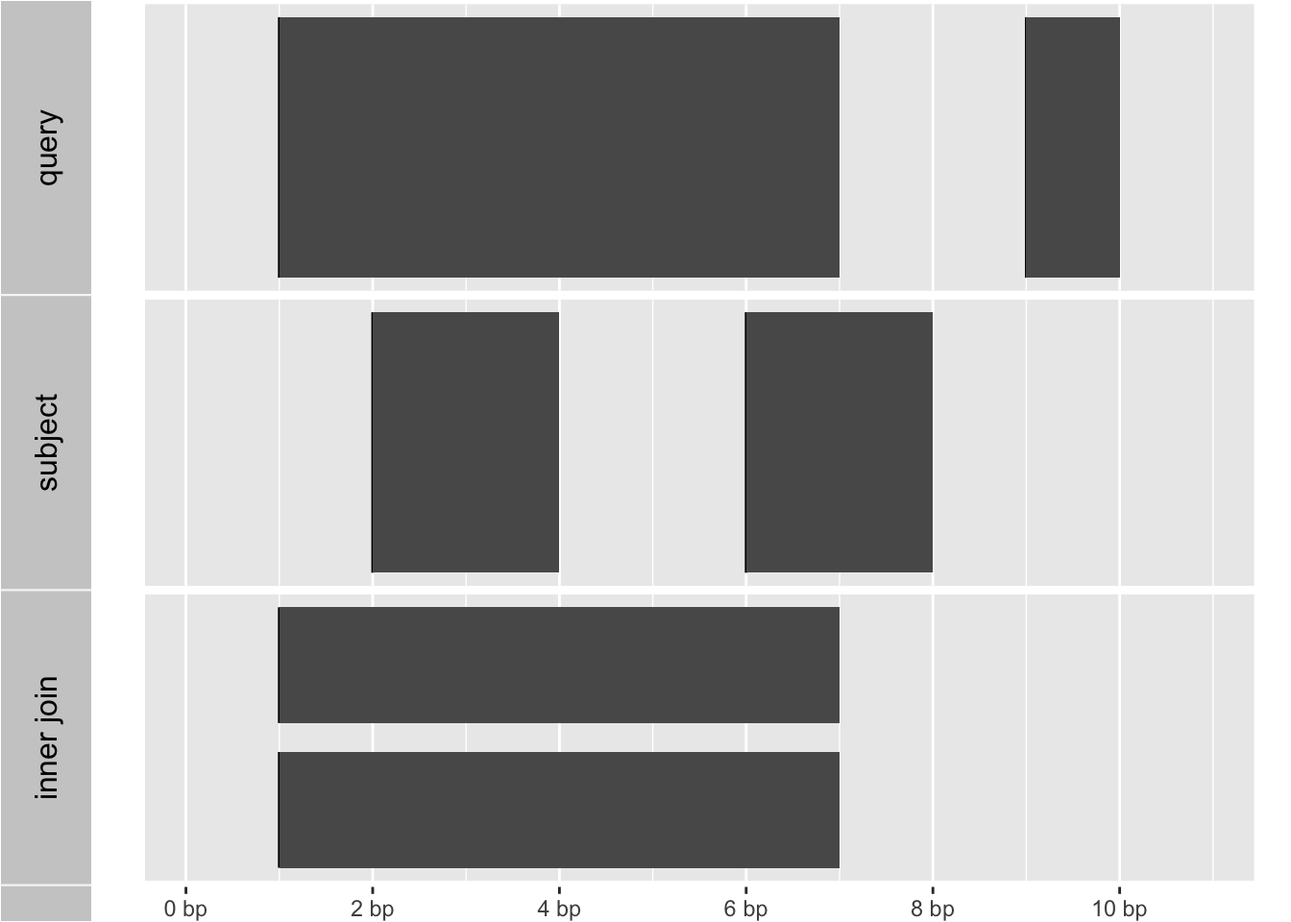
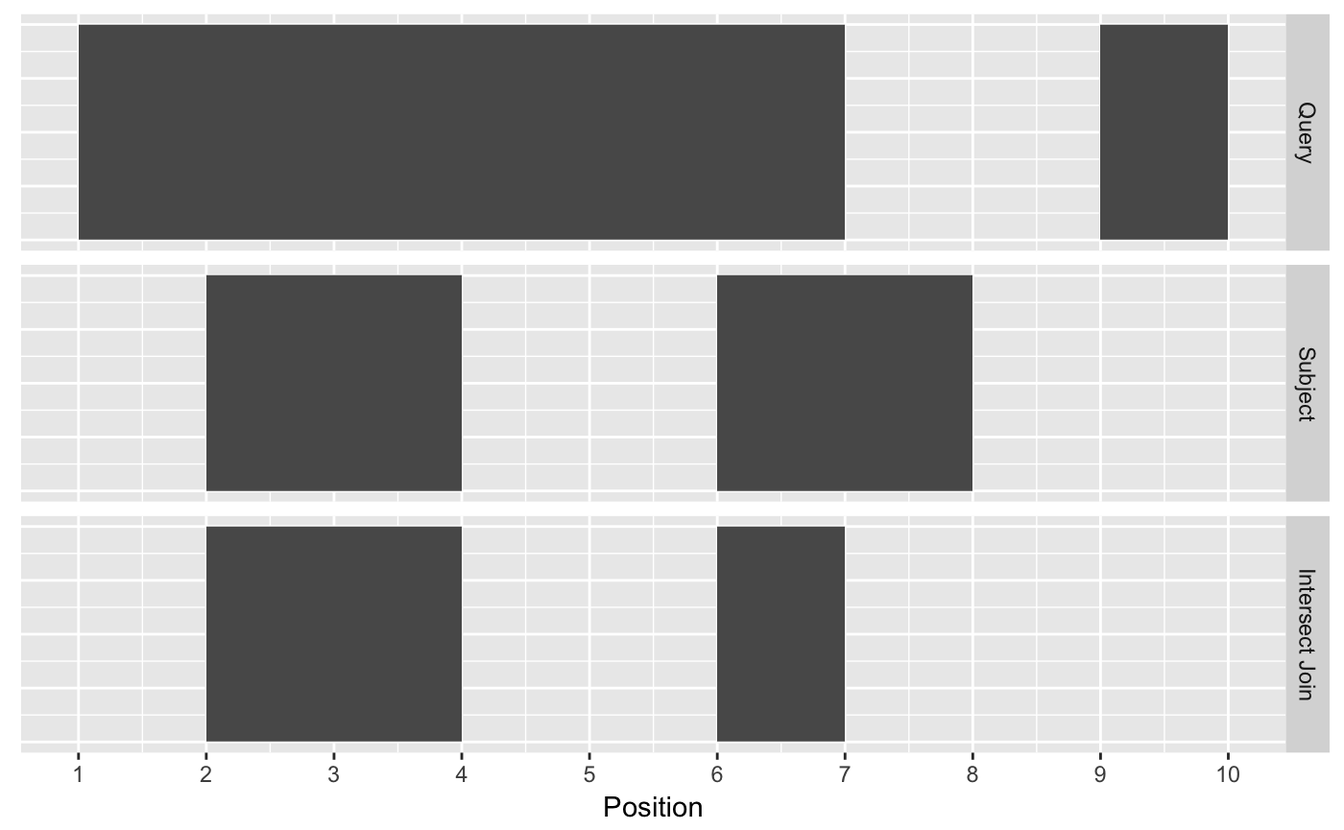
update docs

diff --git a/docs/articles/an-introduction.html b/docs/articles/an-introduction.html
@@ -360,7 +360,7 @@
 <h1 class="hasAnchor">
 <a href="#summarising-ranges" class="anchor"></a>Summarising <code>Ranges</code>
 </h1>
-<p>The <code>summarise</code> function will return a tibble because the information required to return a <code>Ranges</code> object is lost. It is often most useful to use <code>summarise</code> in combination with the <code>group_by</code> family of functions.</p>
+<p>The <code>summarise</code> function will return a <code>DataFrame</code> because the information required to return a <code>Ranges</code> object is lost. It is often most useful to use <code><a href="http://dplyr.tidyverse.org/reference/summarise.html">summarise()</a></code> in combination with the <code><a href="http://dplyr.tidyverse.org/reference/group_by.html">group_by()</a></code> family of functions.</p>
 <div class="sourceCode" id="cb49"><pre class="sourceCode r"><code class="sourceCode r"><a class="sourceLine" id="cb49-1" data-line-number="1">ir1 &lt;-<span class="st"> </span>ir1 <span class="op">%&gt;%</span></a>
 <a class="sourceLine" id="cb49-2" data-line-number="2"><span class="st">  </span><span class="kw"><a href="http://dplyr.tidyverse.org/reference/mutate.html">mutate</a></span>(<span class="dt">gc =</span> <span class="kw">runif</span>(<span class="kw">length</span>(.)))</a>
 <a class="sourceLine" id="cb49-3" data-line-number="3"></a>
@@ -377,8 +377,7 @@
 <h1 class="hasAnchor">
 <a href="#joins-or-another-way-at-looking-at-overlaps-between-ranges" class="anchor"></a>Joins, or another way at looking at overlaps between <code>Ranges</code>
 </h1>
-<p>We can think about finding overlaps as a type of join between two <code>Ranges</code> where we are using the intervals as keys. Of most use are the <code>join_overlap_intersect</code>, <code>join_overlap_inner</code> and <code>join_overlap_left</code> functions.</p>
-<p>To begin we’ll define a query and subject <code>GRanges</code> object.</p>
+<p>A join acts on two GRanges objects, a query and a subject.</p>
 <div class="sourceCode" id="cb51"><pre class="sourceCode r"><code class="sourceCode r"><a class="sourceLine" id="cb51-1" data-line-number="1">query &lt;-<span class="st"> </span><span class="kw">data.frame</span>(<span class="dt">seqnames =</span> <span class="st">"chr1"</span>,</a>
 <a class="sourceLine" id="cb51-2" data-line-number="2">               <span class="dt">strand =</span> <span class="kw">c</span>(<span class="st">"+"</span>, <span class="st">"-"</span>),</a>
 <a class="sourceLine" id="cb51-3" data-line-number="3">               <span class="dt">start =</span> <span class="kw">c</span>(<span class="dv">1</span>, <span class="dv">9</span>), </a>
@@ -397,7 +396,9 @@
 Query and Subject Ranges
 </p>
 </div>
-<p>The first function, <code>join_overlap_intersect</code> will return a <code>Ranges`` object  where the start, end, and width coordinates correspond to the amount of any overlap between the left and right input</code>Ranges`. It also returns any metadata in the subject range if the subject overlaps the query. Note that by default the join functions ignore strandedness.</p>
+<p>The join operator is relational in the sense that metadata from the query and subject ranges is retained in the joined range. All join operators in the <code>plyranges</code> DSL generate a set of hits based on overlap or proximity of ranges and use those hits to merge the two datasets in different ways. There are four supported matching algorithms: <em>overlap</em>, <em>nearest</em>, <em>precede</em>, and <em>follow</em>. We can further restrict the matching by whether the query is completely <em>within</em> the subject, and adding the <em>directed</em> suffix ensures that matching ranges have the same direction (strand).</p>
+<p><img src="olaps.png" width="600px"></p>
+<p>The first function, <code><a href="../reference/overlap-joins.html">join_overlap_intersect()</a></code> will return a <code>Ranges</code> object where the start, end, and width coordinates correspond to the amount of any overlap between the left and right input <code>Ranges</code>. It also returns any metadatain the subject range if the subject overlaps the query.</p>
 <div class="sourceCode" id="cb52"><pre class="sourceCode r"><code class="sourceCode r"><a class="sourceLine" id="cb52-1" data-line-number="1">intersect_rng &lt;-<span class="st"> </span><span class="kw"><a href="../reference/overlap-joins.html">join_overlap_intersect</a></span>(query, subject)</a>
 <a class="sourceLine" id="cb52-2" data-line-number="2">intersect_rng</a></code></pre></div>
 <pre><code>## GRanges object with 2 ranges and 2 metadata columns:
@@ -407,23 +408,14 @@ Query and Subject Ranges
 ##   [2]     chr1       6-7      + |        a        B
 ##   -------
 ##   seqinfo: 1 sequence from an unspecified genome; no seqlengths</code></pre>
-<div class="sourceCode" id="cb54"><pre class="sourceCode r"><code class="sourceCode r"><a class="sourceLine" id="cb54-1" data-line-number="1">intersect_df &lt;-<span class="st"> </span><span class="kw">as.data.frame</span>(intersect_rng)[, <span class="op">-</span><span class="kw">c</span>(<span class="dv">6</span>,<span class="dv">7</span>)]</a>
-<a class="sourceLine" id="cb54-2" data-line-number="2">intersect_df<span class="op">$</span>key &lt;-<span class="st"> "Intersect Join"</span></a>
-<a class="sourceLine" id="cb54-3" data-line-number="3">melted_ranges &lt;-<span class="st"> </span><span class="kw">rbind</span>(query_df, subject_df, intersect_df)</a>
-<a class="sourceLine" id="cb54-4" data-line-number="4">melted_ranges<span class="op">$</span>key &lt;-<span class="st"> </span><span class="kw">factor</span>(melted_ranges<span class="op">$</span>key, </a>
-<a class="sourceLine" id="cb54-5" data-line-number="5">                              <span class="dt">levels =</span> <span class="kw">c</span>(<span class="st">"Query"</span>, <span class="st">"Subject"</span>, <span class="st">"Intersect Join"</span>))</a>
-<a class="sourceLine" id="cb54-6" data-line-number="6"><span class="kw">ggplot</span>(melted_ranges, <span class="kw">aes</span>(<span class="dt">xmin =</span> start, <span class="dt">xmax =</span> end, <span class="dt">ymin =</span> <span class="dv">1</span>, <span class="dt">ymax =</span> <span class="dv">3</span>)) <span class="op">+</span></a>
-<a class="sourceLine" id="cb54-7" data-line-number="7"><span class="st">  </span><span class="kw">geom_rect</span>() <span class="op">+</span><span class="st"> </span></a>
-<a class="sourceLine" id="cb54-8" data-line-number="8"><span class="st">  </span><span class="kw">facet_grid</span>(key <span class="op">~</span><span class="st"> </span>.) <span class="op">+</span></a>
-<a class="sourceLine" id="cb54-9" data-line-number="9"><span class="st">  </span><span class="kw">scale_x_continuous</span>(<span class="dt">breaks =</span> <span class="kw">seq</span>(<span class="dv">1</span>, <span class="dv">10</span>, <span class="dt">by =</span> <span class="dv">1</span>)) <span class="op">+</span></a>
-<a class="sourceLine" id="cb54-10" data-line-number="10"><span class="st">  </span><span class="kw">xlab</span>(<span class="st">"Position"</span>) <span class="op">+</span></a>
-<a class="sourceLine" id="cb54-11" data-line-number="11"><span class="st">  </span><span class="kw">theme</span>(<span class="dt">axis.text.y =</span> <span class="kw">element_blank</span>(),</a>
-<a class="sourceLine" id="cb54-12" data-line-number="12">        <span class="dt">axis.ticks.y =</span> <span class="kw">element_blank</span>(),</a>
-<a class="sourceLine" id="cb54-13" data-line-number="13">        <span class="dt">axis.title.y =</span> <span class="kw">element_blank</span>())</a></code></pre></div>
-<p><img src="an-introduction_files/figure-html/unnamed-chunk-14-1.png" width="700"></p>
-<p>The <code>join_overlap_inner</code> function will return the <code>Ranges</code> in the query that overlap any <code>Ranges</code> in the subject. Like the <code>join_overlap_intersect</code> function metadata of the subject <code>Range</code> is returned if it overlaps the query.</p>
-<div class="sourceCode" id="cb55"><pre class="sourceCode r"><code class="sourceCode r"><a class="sourceLine" id="cb55-1" data-line-number="1">inner_rng &lt;-<span class="st"> </span><span class="kw"><a href="../reference/overlap-joins.html">join_overlap_inner</a></span>(query, subject)</a>
-<a class="sourceLine" id="cb55-2" data-line-number="2">inner_rng</a></code></pre></div>
+<div class="figure">
+<img src="an-introduction_files/figure-html/unnamed-chunk-15-1.png" alt="Intersect Join" width="700"><p class="caption">
+Intersect Join
+</p>
+</div>
+<p>The <code><a href="../reference/overlap-joins.html">join_overlap_inner()</a></code> function will return the <code>Ranges</code> in the query that overlap any <code>Ranges</code> in the subject. Like the <code><a href="../reference/overlap-joins.html">join_overlap_intersect()</a></code> function metadata of the subject <code>Range</code> is returned if it overlaps the query.</p>
+<div class="sourceCode" id="cb54"><pre class="sourceCode r"><code class="sourceCode r"><a class="sourceLine" id="cb54-1" data-line-number="1">inner_rng &lt;-<span class="st"> </span><span class="kw"><a href="../reference/overlap-joins.html">join_overlap_inner</a></span>(query, subject)</a>
+<a class="sourceLine" id="cb54-2" data-line-number="2">inner_rng</a></code></pre></div>
 <pre><code>## GRanges object with 2 ranges and 2 metadata columns:
 ##       seqnames    ranges strand |    key.a    key.b
 ##          &lt;Rle&gt; &lt;IRanges&gt;  &lt;Rle&gt; | &lt;factor&gt; &lt;factor&gt;
@@ -432,12 +424,12 @@ Query and Subject Ranges
 ##   -------
 ##   seqinfo: 1 sequence from an unspecified genome; no seqlengths</code></pre>
 <div class="figure">
-<img src="an-introduction_files/figure-html/unnamed-chunk-16-1.png" alt="Inner Join" width="700"><p class="caption">
+<img src="an-introduction_files/figure-html/unnamed-chunk-17-1.png" alt="Inner Join" width="700"><p class="caption">
 Inner Join
 </p>
 </div>
-<p>We also provide a convienence method called <code>find_overlaps</code> that computes the same result as <code>join_overlap_inner</code>.</p>
-<div class="sourceCode" id="cb57"><pre class="sourceCode r"><code class="sourceCode r"><a class="sourceLine" id="cb57-1" data-line-number="1"><span class="kw"><a href="../reference/ranges-overlaps.html">find_overlaps</a></span>(query, subject)</a></code></pre></div>
+<p>We also provide a convienence method called <code>find_overlaps</code> that computes the same result as <code><a href="../reference/overlap-joins.html">join_overlap_inner()</a></code>.</p>
+<div class="sourceCode" id="cb56"><pre class="sourceCode r"><code class="sourceCode r"><a class="sourceLine" id="cb56-1" data-line-number="1"><span class="kw"><a href="../reference/ranges-overlaps.html">find_overlaps</a></span>(query, subject)</a></code></pre></div>
 <pre><code>## GRanges object with 2 ranges and 2 metadata columns:
 ##       seqnames    ranges strand |    key.a    key.b
 ##          &lt;Rle&gt; &lt;IRanges&gt;  &lt;Rle&gt; | &lt;factor&gt; &lt;factor&gt;
@@ -445,10 +437,10 @@ Inner Join
 ##   [2]     chr1       1-7      + |        a        B
 ##   -------
 ##   seqinfo: 1 sequence from an unspecified genome; no seqlengths</code></pre>
-<p>The <code>join_overlap_left</code> method will perform an outer left join.</p>
-<p>First any overlaps that are found will be returned similar to <code>join_overlap_inner</code>. Then any non-overlapping ranges will be returned, with missing values on the metadata columns.</p>
-<div class="sourceCode" id="cb59"><pre class="sourceCode r"><code class="sourceCode r"><a class="sourceLine" id="cb59-1" data-line-number="1">left_rng &lt;-<span class="st"> </span><span class="kw"><a href="../reference/overlap-joins.html">join_overlap_left</a></span>(query, subject)</a>
-<a class="sourceLine" id="cb59-2" data-line-number="2">left_rng</a></code></pre></div>
+<p>The <code><a href="../reference/overlap-joins.html">join_overlap_left()</a></code> method will perform an outer left join.</p>
+<p>First any overlaps that are found will be returned similar to <code><a href="../reference/overlap-joins.html">join_overlap_inner()</a></code>. Then any non-overlapping ranges will be returned, with missing values on the metadata columns.</p>
+<div class="sourceCode" id="cb58"><pre class="sourceCode r"><code class="sourceCode r"><a class="sourceLine" id="cb58-1" data-line-number="1">left_rng &lt;-<span class="st"> </span><span class="kw"><a href="../reference/overlap-joins.html">join_overlap_left</a></span>(query, subject)</a>
+<a class="sourceLine" id="cb58-2" data-line-number="2">left_rng</a></code></pre></div>
 <pre><code>## GRanges object with 3 ranges and 2 metadata columns:
 ##       seqnames    ranges strand |    key.a    key.b
 ##          &lt;Rle&gt; &lt;IRanges&gt;  &lt;Rle&gt; | &lt;factor&gt; &lt;factor&gt;
@@ -458,11 +450,46 @@ Inner Join
 ##   -------
 ##   seqinfo: 2 sequences from an unspecified genome; no seqlengths</code></pre>
 <div class="figure">
-<img src="an-introduction_files/figure-html/unnamed-chunk-19-1.png" alt="Inner Join" width="700"><p class="caption">
-Inner Join
+<img src="an-introduction_files/figure-html/unnamed-chunk-20-1.png" alt="Left Join" width="700"><p class="caption">
+Left Join
 </p>
 </div>
-<p>Compared with <code>filter_by_overlaps</code> above, the overlap left join expands the <code>Ranges</code> to give information about each interval on the query <code>Ranges</code> that overlap those on the subject <code>Ranges</code> as well as the intervals on the left that do not overlap any range on the right.</p>
+<p>Compared with <code><a href="../reference/ranges-filter-overlaps.html">filter_by_overlaps()</a></code> above, the overlap left join expands the <code>Ranges</code> to give information about each interval on the query <code>Ranges</code> that overlap those on the subject <code>Ranges</code> as well as the intervals on the left that do not overlap any range on the right.</p>
+<div id="finding-your-neighbours" class="section level2">
+<h2 class="hasAnchor">
+<a href="#finding-your-neighbours" class="anchor"></a>Finding your neighbours</h2>
+<p>We also provide methods for finding nearest, preceding or following <code>Ranges</code>. Conceputally this is identical to our approach for finding overlaps, except the semantics of the join are different.</p>
+<p><img src="neighbours.png" width="600px"></p>
+<div class="sourceCode" id="cb60"><pre class="sourceCode r"><code class="sourceCode r"><a class="sourceLine" id="cb60-1" data-line-number="1"><span class="kw"><a href="../reference/ranges-nearest.html">join_nearest</a></span>(ir0, ir1)</a></code></pre></div>
+<pre><code>## IRanges object with 4 ranges and 1 metadata column:
+##           start       end     width |                gc
+##       &lt;integer&gt; &lt;integer&gt; &lt;integer&gt; |         &lt;numeric&gt;
+##   [1]         5         9         5 | 0.780358511023223
+##   [2]        10        14         5 | 0.780358511023223
+##   [3]        15        19         5 | 0.780358511023223
+##   [4]        20        24         5 | 0.780358511023223</code></pre>
+<div class="sourceCode" id="cb62"><pre class="sourceCode r"><code class="sourceCode r"><a class="sourceLine" id="cb62-1" data-line-number="1"><span class="kw"><a href="../reference/ranges-follow.html">join_follow</a></span>(ir0, ir1)</a></code></pre></div>
+<pre><code>## IRanges object with 4 ranges and 1 metadata column:
+##           start       end     width |                gc
+##       &lt;integer&gt; &lt;integer&gt; &lt;integer&gt; |         &lt;numeric&gt;
+##   [1]         5         9         5 | 0.777584439376369
+##   [2]        10        14         5 | 0.603324356488883
+##   [3]        15        19         5 | 0.780358511023223
+##   [4]        20        24         5 | 0.780358511023223</code></pre>
+<div class="sourceCode" id="cb64"><pre class="sourceCode r"><code class="sourceCode r"><a class="sourceLine" id="cb64-1" data-line-number="1"><span class="kw"><a href="../reference/ranges-precede.html">join_precede</a></span>(ir0, ir1) <span class="co"># nothing precedes returns empty `Ranges`</span></a></code></pre></div>
+<pre><code>## IRanges object with 0 ranges and 1 metadata column:
+##        start       end     width |        gc
+##    &lt;integer&gt; &lt;integer&gt; &lt;integer&gt; | &lt;numeric&gt;</code></pre>
+<div class="sourceCode" id="cb66"><pre class="sourceCode r"><code class="sourceCode r"><a class="sourceLine" id="cb66-1" data-line-number="1"><span class="kw"><a href="../reference/ranges-precede.html">join_precede</a></span>(ir1, ir0)</a></code></pre></div>
+<pre><code>## IRanges object with 5 ranges and 1 metadata column:
+##           start       end     width |                gc
+##       &lt;integer&gt; &lt;integer&gt; &lt;integer&gt; |         &lt;numeric&gt;
+##   [1]         2         4         3 | 0.777584439376369
+##   [2]         3         6         4 | 0.827303449623287
+##   [3]         4         8         5 | 0.603324356488883
+##   [4]         5        10         6 | 0.491231821943074
+##   [5]         6        12         7 | 0.780358511023223</code></pre>
+</div>
 <div id="example-dealing-with-multimapping" class="section level2">
 <h2 class="hasAnchor">
 <a href="#example-dealing-with-multimapping" class="anchor"></a>Example: dealing with multimapping</h2>
@@ -470,12 +497,12 @@ Inner Join
 <p>We have two <code>Ranges</code> objects. The first contains single nucleotide positions corresponding to an intensity measurement such as a ChiP-seq experiment, while the other contains coordinates for two genes of interest.</p>
 <p>We want to identify which positions in the <code>intensties</code> <code>Ranges</code> overlap the genes, where each row corresponds to a position that overlaps a single gene.</p>
 <p>First we create the two <code>Ranges</code> objects</p>
-<div class="sourceCode" id="cb61"><pre class="sourceCode r"><code class="sourceCode r"><a class="sourceLine" id="cb61-1" data-line-number="1">intensities &lt;-<span class="st"> </span><span class="kw">data.frame</span>(<span class="dt">seqnames =</span> <span class="st">"VI"</span>,</a>
-<a class="sourceLine" id="cb61-2" data-line-number="2">                          <span class="dt">start =</span> <span class="kw">c</span>(<span class="dv">3320</span><span class="op">:</span><span class="dv">3321</span>,<span class="dv">3330</span><span class="op">:</span><span class="dv">3331</span>,<span class="dv">3341</span><span class="op">:</span><span class="dv">3342</span>),</a>
-<a class="sourceLine" id="cb61-3" data-line-number="3">                          <span class="dt">width =</span> <span class="dv">1</span>) <span class="op">%&gt;%</span><span class="st"> </span></a>
-<a class="sourceLine" id="cb61-4" data-line-number="4"><span class="st">  </span><span class="kw"><a href="../reference/ranges-construct.html">as_granges</a></span>()</a>
-<a class="sourceLine" id="cb61-5" data-line-number="5"></a>
-<a class="sourceLine" id="cb61-6" data-line-number="6">intensities </a></code></pre></div>
+<div class="sourceCode" id="cb68"><pre class="sourceCode r"><code class="sourceCode r"><a class="sourceLine" id="cb68-1" data-line-number="1">intensities &lt;-<span class="st"> </span><span class="kw">data.frame</span>(<span class="dt">seqnames =</span> <span class="st">"VI"</span>,</a>
+<a class="sourceLine" id="cb68-2" data-line-number="2">                          <span class="dt">start =</span> <span class="kw">c</span>(<span class="dv">3320</span><span class="op">:</span><span class="dv">3321</span>,<span class="dv">3330</span><span class="op">:</span><span class="dv">3331</span>,<span class="dv">3341</span><span class="op">:</span><span class="dv">3342</span>),</a>
+<a class="sourceLine" id="cb68-3" data-line-number="3">                          <span class="dt">width =</span> <span class="dv">1</span>) <span class="op">%&gt;%</span><span class="st"> </span></a>
+<a class="sourceLine" id="cb68-4" data-line-number="4"><span class="st">  </span><span class="kw"><a href="../reference/ranges-construct.html">as_granges</a></span>()</a>
+<a class="sourceLine" id="cb68-5" data-line-number="5"></a>
+<a class="sourceLine" id="cb68-6" data-line-number="6">intensities </a></code></pre></div>
 <pre><code>## GRanges object with 6 ranges and 0 metadata columns:
 ##       seqnames    ranges strand
 ##          &lt;Rle&gt; &lt;IRanges&gt;  &lt;Rle&gt;
@@ -487,13 +514,13 @@ Inner Join
 ##   [6]       VI      3342      *
 ##   -------
 ##   seqinfo: 1 sequence from an unspecified genome; no seqlengths</code></pre>
-<div class="sourceCode" id="cb63"><pre class="sourceCode r"><code class="sourceCode r"><a class="sourceLine" id="cb63-1" data-line-number="1">genes &lt;-<span class="st"> </span><span class="kw">data.frame</span>(<span class="dt">seqnames =</span> <span class="st">"VI"</span>, </a>
-<a class="sourceLine" id="cb63-2" data-line-number="2">                    <span class="dt">start =</span> <span class="kw">c</span>(<span class="dv">3322</span>, <span class="dv">3030</span>),</a>
-<a class="sourceLine" id="cb63-3" data-line-number="3">                    <span class="dt">end =</span> <span class="kw">c</span>(<span class="dv">3846</span>, <span class="dv">3338</span>),</a>
-<a class="sourceLine" id="cb63-4" data-line-number="4">                    <span class="dt">gene_id=</span><span class="kw">c</span>(<span class="st">"YFL064C"</span>, <span class="st">"YFL065C"</span>)) <span class="op">%&gt;%</span><span class="st"> </span></a>
-<a class="sourceLine" id="cb63-5" data-line-number="5"><span class="st">  </span><span class="kw"><a href="../reference/ranges-construct.html">as_granges</a></span>()</a>
-<a class="sourceLine" id="cb63-6" data-line-number="6">                    </a>
-<a class="sourceLine" id="cb63-7" data-line-number="7">genes</a></code></pre></div>
+<div class="sourceCode" id="cb70"><pre class="sourceCode r"><code class="sourceCode r"><a class="sourceLine" id="cb70-1" data-line-number="1">genes &lt;-<span class="st"> </span><span class="kw">data.frame</span>(<span class="dt">seqnames =</span> <span class="st">"VI"</span>, </a>
+<a class="sourceLine" id="cb70-2" data-line-number="2">                    <span class="dt">start =</span> <span class="kw">c</span>(<span class="dv">3322</span>, <span class="dv">3030</span>),</a>
+<a class="sourceLine" id="cb70-3" data-line-number="3">                    <span class="dt">end =</span> <span class="kw">c</span>(<span class="dv">3846</span>, <span class="dv">3338</span>),</a>
+<a class="sourceLine" id="cb70-4" data-line-number="4">                    <span class="dt">gene_id=</span><span class="kw">c</span>(<span class="st">"YFL064C"</span>, <span class="st">"YFL065C"</span>)) <span class="op">%&gt;%</span><span class="st"> </span></a>
+<a class="sourceLine" id="cb70-5" data-line-number="5"><span class="st">  </span><span class="kw"><a href="../reference/ranges-construct.html">as_granges</a></span>()</a>
+<a class="sourceLine" id="cb70-6" data-line-number="6">                    </a>
+<a class="sourceLine" id="cb70-7" data-line-number="7">genes</a></code></pre></div>
 <pre><code>## GRanges object with 2 ranges and 1 metadata column:
 ##       seqnames    ranges strand |  gene_id
 ##          &lt;Rle&gt; &lt;IRanges&gt;  &lt;Rle&gt; | &lt;factor&gt;
@@ -502,9 +529,9 @@ Inner Join
 ##   -------
 ##   seqinfo: 1 sequence from an unspecified genome; no seqlengths</code></pre>
 <p>Now to find where the positions overlap each gene, we can perform an overlap join. This will automatically carry over the gene_id information as well as their coordinates (we can drop those by only selecting the gene_id).</p>
-<div class="sourceCode" id="cb65"><pre class="sourceCode r"><code class="sourceCode r"><a class="sourceLine" id="cb65-1" data-line-number="1">olap &lt;-<span class="st"> </span><span class="kw"><a href="../reference/overlap-joins.html">join_overlap_inner</a></span>(intensities, genes) <span class="op">%&gt;%</span></a>
-<a class="sourceLine" id="cb65-2" data-line-number="2"><span class="st">  </span><span class="kw"><a href="http://dplyr.tidyverse.org/reference/select.html">select</a></span>(gene_id)</a>
-<a class="sourceLine" id="cb65-3" data-line-number="3">olap</a></code></pre></div>
+<div class="sourceCode" id="cb72"><pre class="sourceCode r"><code class="sourceCode r"><a class="sourceLine" id="cb72-1" data-line-number="1">olap &lt;-<span class="st"> </span><span class="kw"><a href="../reference/overlap-joins.html">join_overlap_inner</a></span>(intensities, genes) <span class="op">%&gt;%</span></a>
+<a class="sourceLine" id="cb72-2" data-line-number="2"><span class="st">  </span><span class="kw"><a href="http://dplyr.tidyverse.org/reference/select.html">select</a></span>(gene_id)</a>
+<a class="sourceLine" id="cb72-3" data-line-number="3">olap</a></code></pre></div>
 <pre><code>## GRanges object with 8 ranges and 1 metadata column:
 ##       seqnames    ranges strand |  gene_id
 ##          &lt;Rle&gt; &lt;IRanges&gt;  &lt;Rle&gt; | &lt;factor&gt;
@@ -519,9 +546,9 @@ Inner Join
 ##   -------
 ##   seqinfo: 1 sequence from an unspecified genome; no seqlengths</code></pre>
 <p>Several positions match to both genes. We can count them using <code>summarise</code> and grouping by the <code>start</code> position:</p>
-<div class="sourceCode" id="cb67"><pre class="sourceCode r"><code class="sourceCode r"><a class="sourceLine" id="cb67-1" data-line-number="1">olap <span class="op">%&gt;%</span><span class="st"> </span></a>
-<a class="sourceLine" id="cb67-2" data-line-number="2"><span class="st">  </span><span class="kw"><a href="http://dplyr.tidyverse.org/reference/group_by.html">group_by</a></span>(start) <span class="op">%&gt;%</span></a>
-<a class="sourceLine" id="cb67-3" data-line-number="3"><span class="st">  </span><span class="kw"><a href="http://dplyr.tidyverse.org/reference/summarise.html">summarise</a></span>(<span class="dt">n =</span> <span class="kw"><a href="../reference/n.html">n</a></span>())</a></code></pre></div>
+<div class="sourceCode" id="cb74"><pre class="sourceCode r"><code class="sourceCode r"><a class="sourceLine" id="cb74-1" data-line-number="1">olap <span class="op">%&gt;%</span><span class="st"> </span></a>
+<a class="sourceLine" id="cb74-2" data-line-number="2"><span class="st">  </span><span class="kw"><a href="http://dplyr.tidyverse.org/reference/group_by.html">group_by</a></span>(start) <span class="op">%&gt;%</span></a>
+<a class="sourceLine" id="cb74-3" data-line-number="3"><span class="st">  </span><span class="kw"><a href="http://dplyr.tidyverse.org/reference/summarise.html">summarise</a></span>(<span class="dt">n =</span> <span class="kw"><a href="../reference/n.html">n</a></span>())</a></code></pre></div>
 <pre><code>## DataFrame with 6 rows and 2 columns
 ##       start         n
 ##   &lt;integer&gt; &lt;integer&gt;
@@ -532,50 +559,13 @@ Inner Join
 ## 5      3341         1
 ## 6      3342         1</code></pre>
 </div>
-<div id="finding-your-neighbours" class="section level2">
-<h2 class="hasAnchor">
-<a href="#finding-your-neighbours" class="anchor"></a>Finding your neighbours</h2>
-<p>We also provide methods for finding nearest, preceding or following <code>Ranges</code>.</p>
-<!--- ![Nearest neighbour joins](neighbours.png) --->
-<p>These methods are similar to the overlap joins described above.</p>
-<div class="sourceCode" id="cb69"><pre class="sourceCode r"><code class="sourceCode r"><a class="sourceLine" id="cb69-1" data-line-number="1"><span class="kw"><a href="../reference/ranges-nearest.html">join_nearest</a></span>(ir0, ir1)</a></code></pre></div>
-<pre><code>## IRanges object with 4 ranges and 1 metadata column:
-##           start       end     width |                gc
-##       &lt;integer&gt; &lt;integer&gt; &lt;integer&gt; |         &lt;numeric&gt;
-##   [1]         5         9         5 | 0.780358511023223
-##   [2]        10        14         5 | 0.780358511023223
-##   [3]        15        19         5 | 0.780358511023223
-##   [4]        20        24         5 | 0.780358511023223</code></pre>
-<div class="sourceCode" id="cb71"><pre class="sourceCode r"><code class="sourceCode r"><a class="sourceLine" id="cb71-1" data-line-number="1"><span class="kw"><a href="../reference/ranges-follow.html">join_follow</a></span>(ir0, ir1)</a></code></pre></div>
-<pre><code>## IRanges object with 4 ranges and 1 metadata column:
-##           start       end     width |                gc
-##       &lt;integer&gt; &lt;integer&gt; &lt;integer&gt; |         &lt;numeric&gt;
-##   [1]         5         9         5 | 0.777584439376369
-##   [2]        10        14         5 | 0.603324356488883
-##   [3]        15        19         5 | 0.780358511023223
-##   [4]        20        24         5 | 0.780358511023223</code></pre>
-<div class="sourceCode" id="cb73"><pre class="sourceCode r"><code class="sourceCode r"><a class="sourceLine" id="cb73-1" data-line-number="1"><span class="kw"><a href="../reference/ranges-precede.html">join_precede</a></span>(ir0, ir1) <span class="co"># nothing precedes returns empty `Ranges`</span></a></code></pre></div>
-<pre><code>## IRanges object with 0 ranges and 1 metadata column:
-##        start       end     width |        gc
-##    &lt;integer&gt; &lt;integer&gt; &lt;integer&gt; | &lt;numeric&gt;</code></pre>
-<div class="sourceCode" id="cb75"><pre class="sourceCode r"><code class="sourceCode r"><a class="sourceLine" id="cb75-1" data-line-number="1"><span class="kw"><a href="../reference/ranges-precede.html">join_precede</a></span>(ir1, ir0)</a></code></pre></div>
-<pre><code>## IRanges object with 5 ranges and 1 metadata column:
-##           start       end     width |                gc
-##       &lt;integer&gt; &lt;integer&gt; &lt;integer&gt; |         &lt;numeric&gt;
-##   [1]         2         4         3 | 0.777584439376369
-##   [2]         3         6         4 | 0.827303449623287
-##   [3]         4         8         5 | 0.603324356488883
-##   [4]         5        10         6 | 0.491231821943074
-##   [5]         6        12         7 | 0.780358511023223</code></pre>
-<p>For <code>GRanges</code> objects by default strand is not considered when performing overlap joins. To include strand when finding overlaps use append the prefix <code>directed</code>. To restrict overlapping <code>Ranges</code> to those within the query range use the prefix <code>within</code>.</p>
-</div>
 <div id="grouping-by-overlaps" class="section level2">
 <h2 class="hasAnchor">
 <a href="#grouping-by-overlaps" class="anchor"></a>Grouping by overlaps</h2>
 <p>It’s also possible to group by overlaps. Using this approach we can count the number of overlaps that are greater than 0.</p>
-<div class="sourceCode" id="cb77"><pre class="sourceCode r"><code class="sourceCode r"><a class="sourceLine" id="cb77-1" data-line-number="1">grp_by_olap &lt;-<span class="st"> </span>ir0 <span class="op">%&gt;%</span><span class="st"> </span></a>
-<a class="sourceLine" id="cb77-2" data-line-number="2"><span class="st">  </span><span class="kw"><a href="../reference/ranges-overlaps.html">group_by_overlaps</a></span>(ir1)</a>
-<a class="sourceLine" id="cb77-3" data-line-number="3">grp_by_olap</a></code></pre></div>
+<div class="sourceCode" id="cb76"><pre class="sourceCode r"><code class="sourceCode r"><a class="sourceLine" id="cb76-1" data-line-number="1">grp_by_olap &lt;-<span class="st"> </span>ir0 <span class="op">%&gt;%</span><span class="st"> </span></a>
+<a class="sourceLine" id="cb76-2" data-line-number="2"><span class="st">  </span><span class="kw"><a href="../reference/ranges-overlaps.html">group_by_overlaps</a></span>(ir1)</a>
+<a class="sourceLine" id="cb76-3" data-line-number="3">grp_by_olap</a></code></pre></div>
 <pre><code>## IRanges object with 6 ranges and 2 metadata columns:
 ## Groups: query [2]
 ##           start       end     width |                gc     query
@@ -586,8 +576,8 @@ Inner Join
 ##   [4]         5         9         5 | 0.780358511023223         1
 ##   [5]        10        14         5 | 0.491231821943074         2
 ##   [6]        10        14         5 | 0.780358511023223         2</code></pre>
-<div class="sourceCode" id="cb79"><pre class="sourceCode r"><code class="sourceCode r"><a class="sourceLine" id="cb79-1" data-line-number="1">grp_by_olap <span class="op">%&gt;%</span></a>
-<a class="sourceLine" id="cb79-2" data-line-number="2"><span class="st">  </span><span class="kw"><a href="http://dplyr.tidyverse.org/reference/mutate.html">mutate</a></span>(<span class="dt">n_overlaps =</span> <span class="kw"><a href="../reference/n.html">n</a></span>())</a></code></pre></div>
+<div class="sourceCode" id="cb78"><pre class="sourceCode r"><code class="sourceCode r"><a class="sourceLine" id="cb78-1" data-line-number="1">grp_by_olap <span class="op">%&gt;%</span></a>
+<a class="sourceLine" id="cb78-2" data-line-number="2"><span class="st">  </span><span class="kw"><a href="http://dplyr.tidyverse.org/reference/mutate.html">mutate</a></span>(<span class="dt">n_overlaps =</span> <span class="kw"><a href="../reference/n.html">n</a></span>())</a></code></pre></div>
 <pre><code>## IRanges object with 6 ranges and 3 metadata columns:
 ## Groups: query [2]
 ##           start       end     width |                gc     query
@@ -606,9 +596,9 @@ Inner Join
 ##   [4]          4
 ##   [5]          2
 ##   [6]          2</code></pre>
-<p>Of course we can also add overlap counts via the <code>count_overlaps</code> function.</p>
-<div class="sourceCode" id="cb81"><pre class="sourceCode r"><code class="sourceCode r"><a class="sourceLine" id="cb81-1" data-line-number="1">ir0 <span class="op">%&gt;%</span></a>
-<a class="sourceLine" id="cb81-2" data-line-number="2"><span class="st">  </span><span class="kw"><a href="http://dplyr.tidyverse.org/reference/mutate.html">mutate</a></span>(<span class="dt">n_overlaps =</span> <span class="kw"><a href="../reference/ranges-count-overlaps.html">count_overlaps</a></span>(., ir1))</a></code></pre></div>
+<p>Of course we can also add overlap counts via the <code><a href="../reference/ranges-count-overlaps.html">count_overlaps()</a></code> function.</p>
+<div class="sourceCode" id="cb80"><pre class="sourceCode r"><code class="sourceCode r"><a class="sourceLine" id="cb80-1" data-line-number="1">ir0 <span class="op">%&gt;%</span></a>
+<a class="sourceLine" id="cb80-2" data-line-number="2"><span class="st">  </span><span class="kw"><a href="http://dplyr.tidyverse.org/reference/mutate.html">mutate</a></span>(<span class="dt">n_overlaps =</span> <span class="kw"><a href="../reference/ranges-count-overlaps.html">count_overlaps</a></span>(., ir1))</a></code></pre></div>
 <pre><code>## IRanges object with 4 ranges and 1 metadata column:
 ##           start       end     width | n_overlaps
 ##       &lt;integer&gt; &lt;integer&gt; &lt;integer&gt; |  &lt;integer&gt;
@@ -659,7 +649,7 @@ Inner Join
 </tr>
 <tr class="even">
 <td>
-<code>read_bw()</code> / <code>write_bw()</code>
+<code><a href="../reference/io-bigwig-read.html">read_bigwig()</a></code> / <code><a href="../reference/io-bigwig-write.html">write_bigwig()</a></code>
 </td>
 <td>BigWig</td>
 </tr>
@@ -882,7 +872,7 @@ Inner Join
 <div id="appendix" class="section level1">
 <h1 class="hasAnchor">
 <a href="#appendix" class="anchor"></a>Appendix</h1>
-<div class="sourceCode" id="cb83"><pre class="sourceCode r"><code class="sourceCode r"><a class="sourceLine" id="cb83-1" data-line-number="1"><span class="kw">sessionInfo</span>()</a></code></pre></div>
+<div class="sourceCode" id="cb82"><pre class="sourceCode r"><code class="sourceCode r"><a class="sourceLine" id="cb82-1" data-line-number="1"><span class="kw">sessionInfo</span>()</a></code></pre></div>
 <pre><code>## R version 3.5.0 (2018-04-23)
 ## Platform: x86_64-apple-darwin15.6.0 (64-bit)
 ## Running under: macOS Sierra 10.12.6
@@ -953,8 +943,8 @@ Inner Join
       <li><a href="#summarising-ranges">Summarising <code>Ranges</code></a></li>
       <li>
 <a href="#joins-or-another-way-at-looking-at-overlaps-between-ranges">Joins, or another way at looking at overlaps between <code>Ranges</code></a><ul class="nav nav-pills nav-stacked">
-<li><a href="#example-dealing-with-multimapping">Example: dealing with multimapping</a></li>
-      <li><a href="#finding-your-neighbours">Finding your neighbours</a></li>
+<li><a href="#finding-your-neighbours">Finding your neighbours</a></li>
+      <li><a href="#example-dealing-with-multimapping">Example: dealing with multimapping</a></li>
       <li><a href="#grouping-by-overlaps">Grouping by overlaps</a></li>
       </ul>
 </li>
